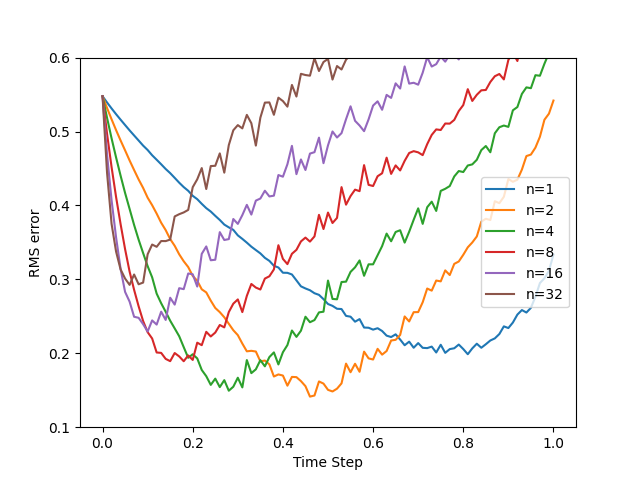
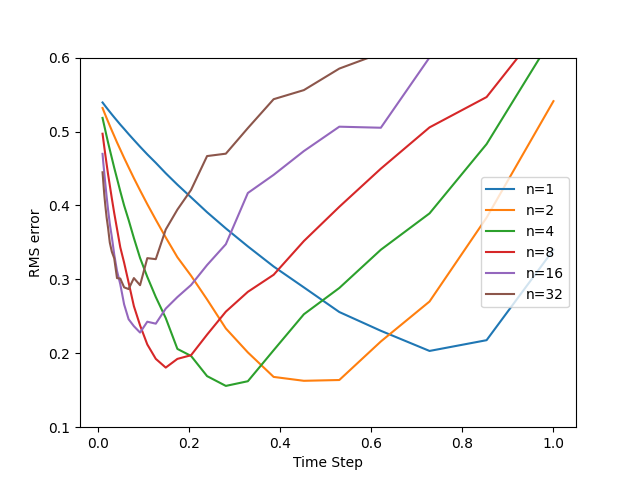
improved random_walk.py

diff --git a/CH07/random_walk.py b/CH07/random_walk.py
@@ -77,7 +77,7 @@ class RandomWalk:
                     returns = 0
                     for j in range(update_time + 1, min(update_time + step, terminal) + 1):
                         returns += (self.discount ** (j - update_time - 1)) * rewards[j]
-                    if update_time + step <= terminal:
+                    if update_time + step < terminal:
                         returns += (self.discount ** step) * self.state_values[states[update_time + step]]
                     state = states[update_time]
                     if state != self.states[0] and state != self.states[-1]:
@@ -92,13 +92,14 @@ class RandomWalk:
         episode = 10
         repeat = 100
         steps = np.power(2, np.arange(0, 6))
-        time_steps = np.arange(0, 1.01, 0.01)
+        time_steps = np.logspace(-2, 0, num=30)
         errors = np.zeros((len(steps), len(time_steps)))
         plt.figure()
         for i in range(len(steps)):
             step = steps[i]
-            for j, time_step in enumerate(time_steps):
-                print(f'step:{step} time_step:{time_step}')
+            for j in trange(len(time_steps)):
+                time_step = time_steps[j]
+                # print(f'step:{step} time_step:{time_step}')
                 for k in range(repeat):
                     errors[i, j] += self.n_step_td(episode, step, time_step)
                 errors[i, j] /= repeat
